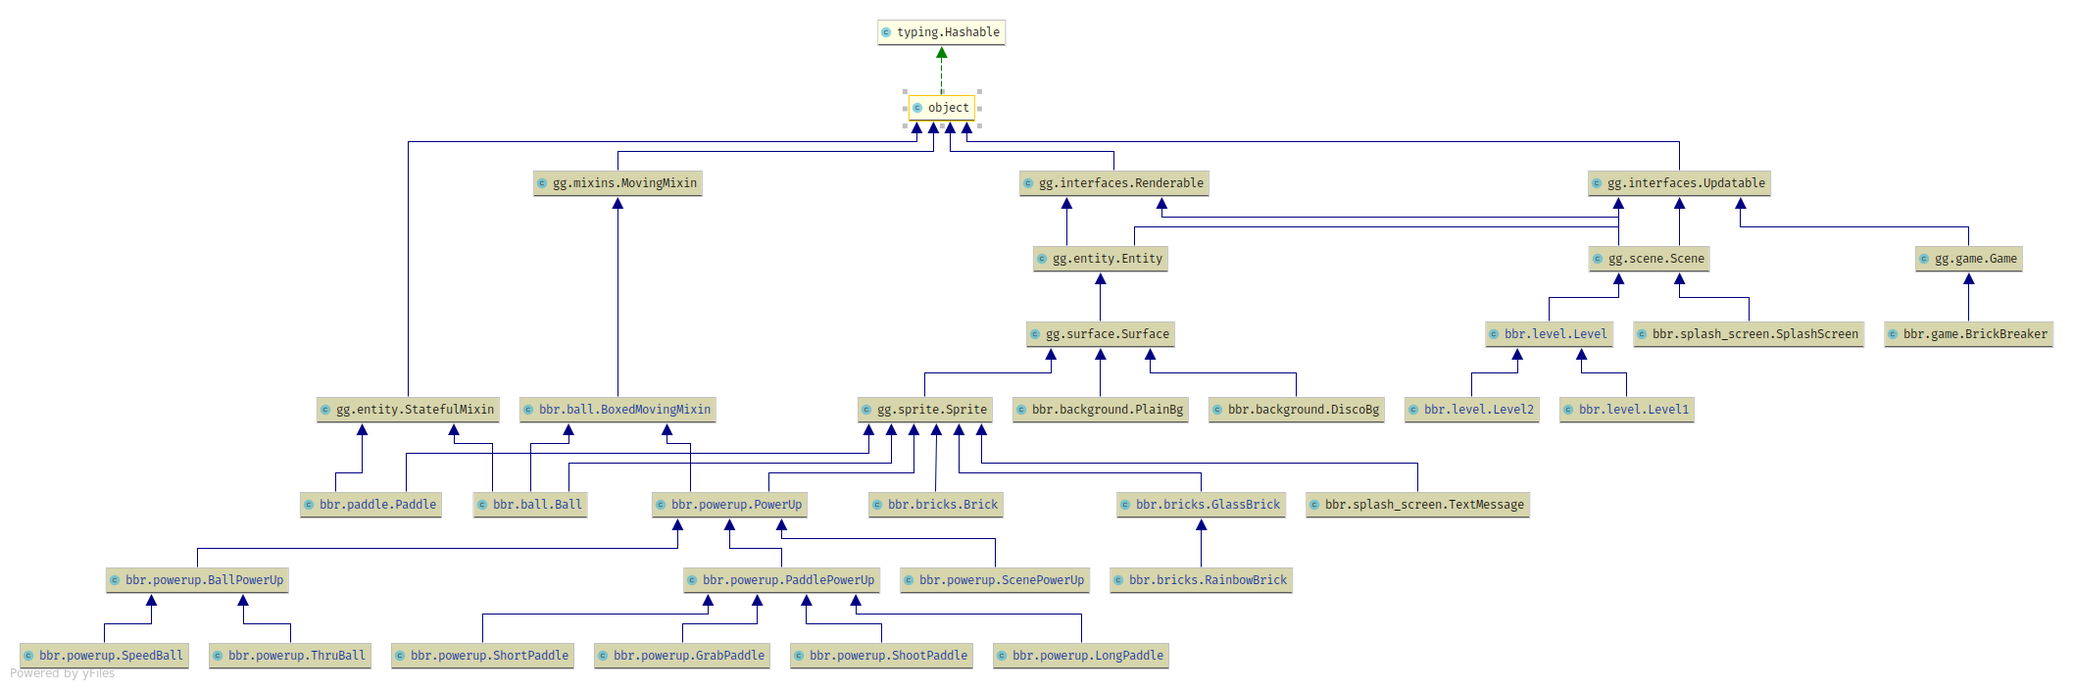
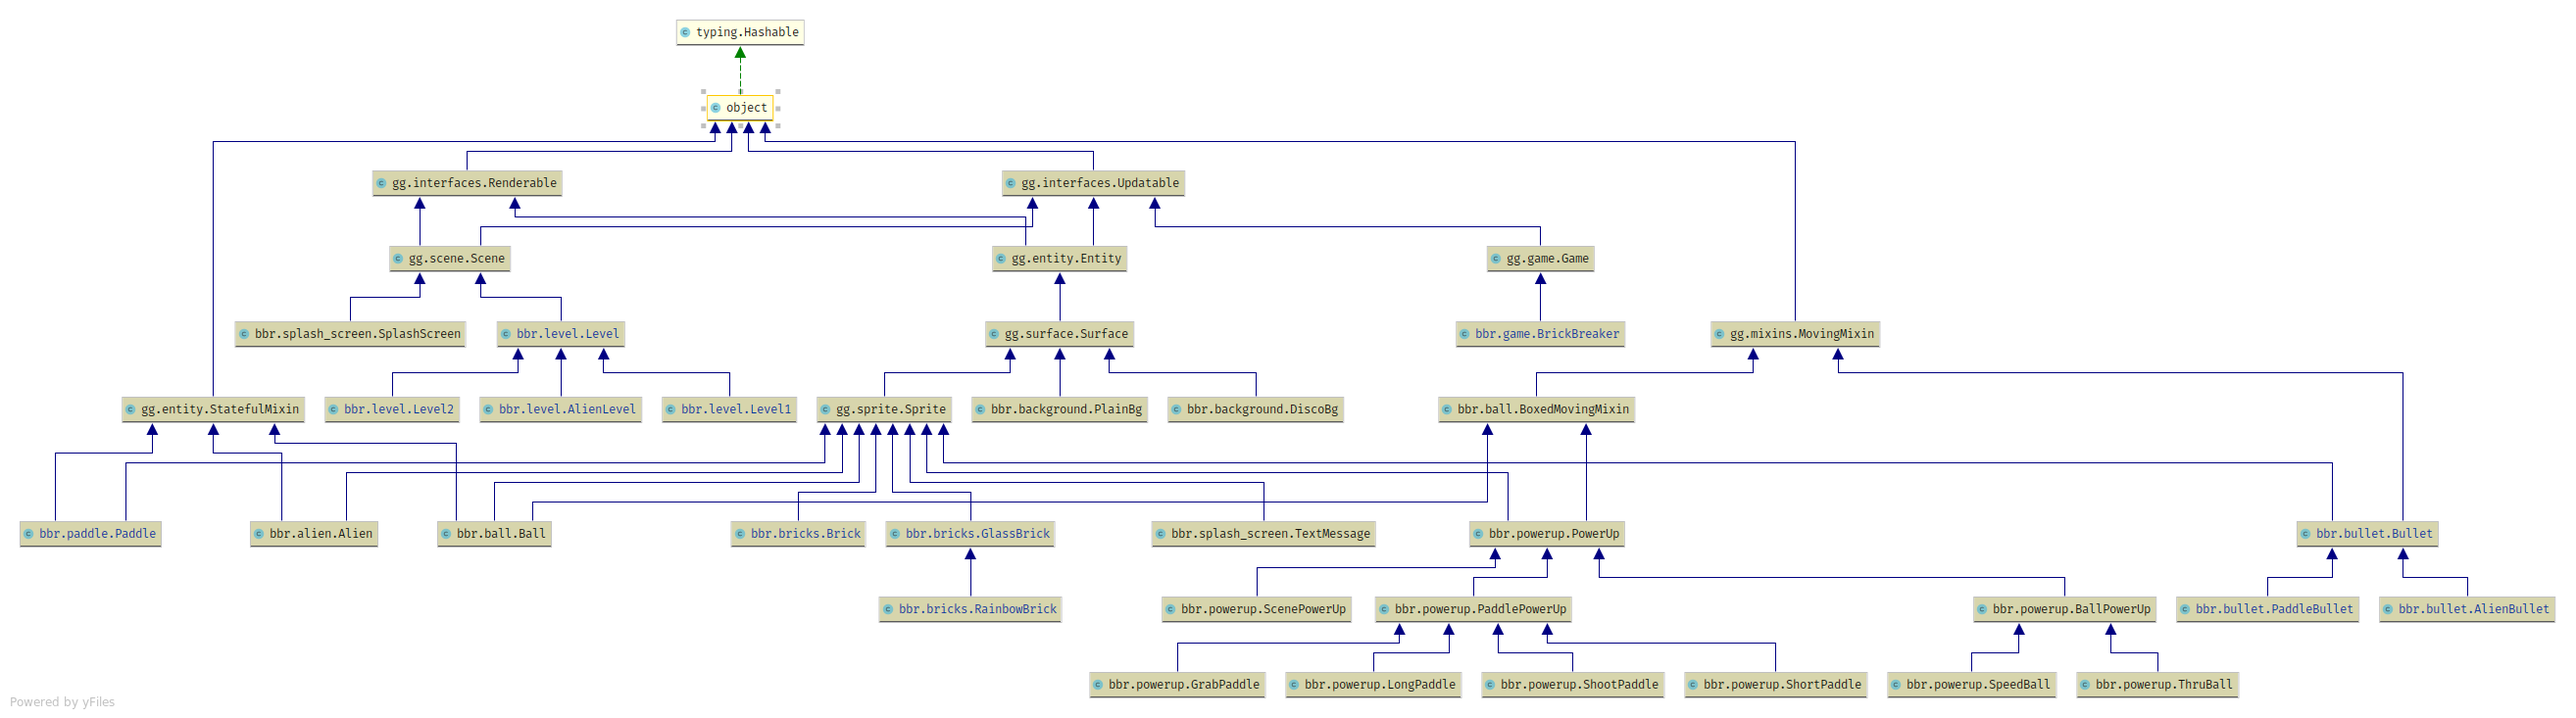
Game Complete 1

diff --git a/bbr/level.py b/bbr/level.py
@@ -1,8 +1,10 @@
 import numpy as np
 
+from bbr.alien import Alien
 from bbr.background import DiscoBg
 from bbr.ball import Ball
 from bbr.bricks import GlassBrick, RainbowBrick, Brick
+from bbr.bullet import PaddleBullet, AlienBullet
 from bbr.paddle import Paddle
 from bbr.powerup import LongPaddle, ShortPaddle, ShootPaddle, GrabPaddle, SpeedBall, ThruBall
 from gg import Scene
@@ -18,6 +20,7 @@ class Level(Scene):
         self.bricks = []
         self.balls = []
         self.powerups = []
+        self.bullets = []
         self.gen()
 
     def gen(self):
@@ -42,6 +45,16 @@ class Level(Scene):
             if it.is_active():
                 yield it
 
+    def iter_bullets(self):
+        for it in self.bullets:
+            if it.is_active():
+                yield it
+
+    def add_paddle_bullet(self, pos, vel):
+        bullet = PaddleBullet(self, pos=pos, vel=vel)
+        self.bullets.append(bullet)
+        self.add(bullet)
+
     def add_powerup(self, pos, vel):
         id = np.random.randint(0, 6)
         if id == 0:
@@ -62,15 +75,12 @@ class Level(Scene):
     def update(self, timestamp):
         super(Level, self).update(timestamp)
         self.balls = [x for x in self.iter_balls()]
+        self.bullets = [x for x in self.iter_bullets()]
         self.bricks = [x for x in self.iter_bricks()]
         self.powerups = [x for x in self.iter_powerups()]
         if timestamp > 200 and timestamp % 50 == 0:
             for x in self.iter_bricks():
                 x.move(Pos([1, 0]))
-                if x.bottom == self.bottom - 2:
-                    return 'FAIL'
-        if len(self.bricks) == 0:
-            return 'PASS'
         if len(self.balls) == 0:
             self.game.lives -= 1
             ball_pos = self.paddle.pos + [-1, np.random.randint(0, self.paddle.width // 2) * 2]
@@ -78,7 +88,6 @@ class Level(Scene):
                 Ball(self, pos=ball_pos, vel=Vel([0, 0]))
             )
             self.add(*self.balls)
-        return 'OK'
 
     # def generate_bricks(self):
     #     for it in range(7):
@@ -108,6 +117,9 @@ class Level(Scene):
             for it in self.iter_balls():
                 it.on_paddle = False
                 it.set_launch_angle(self.paddle.get_ball_angle(it.x))
+        elif char == 's':
+            if self.paddle.state['shooting']:
+                self.add_paddle_bullet(Pos(self.paddle.pos + Pos([0, 2])), Vel([-1, 0]))
 
 
 class Level1(Level):
@@ -122,6 +134,14 @@ class Level1(Level):
                     [4 + 1 * GlassBrick.SHAPE[0], 4 + it * GlassBrick.SHAPE[1]]
                 ))
             )
+
+    def update(self, timestamp):
+        super(Level1, self).update(timestamp)
+        for x in self.iter_bricks():
+            if x.bottom >= self.bottom - 2:
+                return 'FAIL'
+        if len(self.bricks) == 0:
+            return 'PASS'
 
 
 class Level2(Level):
@@ -175,3 +195,69 @@ class Level2(Level):
                     [y, 4 + 2 * it * RainbowBrick.SHAPE[1]]
                 ))
             )
+
+    def update(self, timestamp):
+        super(Level1, self).update(timestamp)
+        for x in self.iter_bricks():
+            if x.bottom >= self.bottom - 2:
+                return 'FAIL'
+        if len(self.bricks) == 0:
+            return 'PASS'
+
+
+class AlienLevel(Level):
+    def __init__(self, *args, **kwargs):
+        super(AlienLevel, self).__init__(*args, **kwargs)
+        # print(self.paddle.pos)
+        self.alien = Alien(self, pos=Pos([1, self.left + (self.width // 4) * 2]))
+        self.add(self.alien)
+
+    def generate_bricks(self):
+        pass
+
+    def add_powerup(self, pos, vel):
+        pass
+
+    def add_paddle_bullet(self, pos, vel):
+        pass
+
+    def add_layer(self):
+        for x in self.iter_bricks():
+            x.move(Pos(self.width, 0))
+        y = self.alien.bottom
+        to_add = []
+        # First Row
+        for it in range(3):
+            to_add.append(
+                GlassBrick(self, pos=Pos(
+                    [y, 4 + (2 * it + 1) * GlassBrick.SHAPE[1]]
+                ))
+            )
+
+        for it in range(4):
+            to_add.append(
+                RainbowBrick(self, pos=Pos(
+                    [y, 4 + 2 * it * RainbowBrick.SHAPE[1]]
+                ))
+            )
+        self.bricks += to_add
+        self.add(*to_add)
+
+    def add_alien_bullet(self, pos, vel):
+        # print(pos)
+        bullet = AlienBullet(self, pos=pos, vel=vel)
+        self.bullets.append(bullet)
+        self.add(bullet)
+
+    def receive_input(self, char):
+        super(AlienLevel, self).receive_input(char)
+        if char in ['j', 'l']:
+            direction = -4 if char == 'j' else 4
+            direction = min(self.right - self.paddle.right, direction)
+            direction = max(self.left - self.paddle.left, direction)
+            self.alien.move(Pos([0, direction]))
+
+    def update(self, timestamp):
+        if not self.alien.is_active():
+            return 'PASS'
+        return super(AlienLevel, self).update(timestamp)

diff --git a/bbr/alien.py b/bbr/alien.py
@@ -1,0 +1,55 @@
+from bbr.sprites import alien
+from gg import StatefulMixin, Sprite
+from gg.utils import load_sprite, collides, Vel, Pos
+
+
+class Alien(StatefulMixin, Sprite):
+    sprite = load_sprite(alien[1])
+    SHAPE = sprite.shape
+
+    def __init__(self, scene, *args, **kwargs):
+        state = {
+            'done': 0,
+            'color': [255, 255, 66]
+        }
+        kwargs['state'] = state
+        super(Alien, self).__init__(self.sprite, scene, *args, **kwargs)
+        self.fill_foreground(self.state['color'])
+
+    def update_sprite(self):
+        self.fill_foreground(self.state['color'])
+
+    def hit(self, targeet):
+        self.state['color'][1] -= 20
+        if self.state['color'][1] < 200 and self.state['done'] == 0:
+            self.scene.add_layer()
+            self.state['done'] += 1
+        elif self.state['color'][1] < 100 and self.state['done'] == 1:
+            self.scene.add_layer()
+            self.state['done'] += 1
+        self.update_sprite()
+
+    def update(self, timestamp):
+        for target in self.scene.iter_balls():
+            if (target.top == self.bottom or collides(target, self) and target.vy < 0) \
+                    or (target.bottom == self.top or collides(target, self) and target.vy > 0):
+                if target.left > self.left - 1 and target.right < self.right + 2:
+                    self.hit(target)
+                    target.switch_y()
+                elif target.left == self.left - 1 and target.vx > 0:
+                    self.hit(target)
+                    target.switch_x()
+                    target.switch_y()
+                elif target.left == self.right + 1 and target.vx < 0:
+                    self.hit(target)
+                    target.switch_x()
+                    target.switch_y()
+
+            elif (target.left == self.right or collides(target, self) and target.vx < 0) or \
+                    (target.right == self.left or collides(target, self) and target.vx > 0):
+                if self.top <= target.top <= self.bottom:
+                    self.hit(target)
+                    target.switch_x()
+
+        if timestamp % 10 == 0:
+            self.scene.add_alien_bullet(Pos([self.bottom, self.left + self.width // 2]), Vel([1, 0]))

diff --git a/bbr/bullet.py b/bbr/bullet.py
@@ -18,11 +18,13 @@ class AlienBullet(Bullet):
     sprite = load_sprite(bullet[0])
     SHAPE = sprite.shape
 
-    def __init__(self, scene, *args, **kwargs):
-        super(AlienBullet, self).__init__(self.sprite, scene, *args, **kwargs)
+    def __init__(self, *args, **kwargs):
+        super(AlienBullet, self).__init__(*args, **kwargs)
         self.vel = Vel([1, 0])
 
     def update(self, timestamp):
+        if self.bottom == self.scene.paddle.top:
+            self.scene.game.lives -= 1
         self.move(self.vel)
 
 
@@ -30,9 +32,14 @@ class PaddleBullet(Bullet):
     sprite = load_sprite(bullet[1])
     SHAPE = sprite.shape
 
-    def __init__(self, scene, *args, **kwargs):
-        super(PaddleBullet, self).__init__(self.sprite, scene, *args, **kwargs)
+    def __init__(self, *args, **kwargs):
+        super(PaddleBullet, self).__init__(*args, **kwargs)
         self.vel = Vel([-1, 0])
 
     def update(self, timestamp):
+        for target in self.scene.iter_bricks():
+            if self.top == target.bottom:
+                self.deactivate()
+                return
+
         self.move(self.vel)

diff --git a/bbr/bricks.py b/bbr/bricks.py
@@ -2,6 +2,7 @@ import numpy as np
 
 from gg import Sprite
 from gg.utils import load_sprite, load_sprites
+from .ball import Ball
 from .sprites import brick, glass
 
 
@@ -35,15 +36,17 @@ class GlassBrick(Sprite):
         self.alpha = True
 
     def hit(self, ball):
-        if ball.state['thru']:
-            self.deactivate()
-            return
+        if isinstance(ball, Ball):
+            if ball.state['thru']:
+                self.deactivate()
+                return
         self.scene.game.score += 100
         self.state += 1
         # if True:
         # print(ball.vel)
         # print("hi")
-        self.scene.add_powerup(self.pos + [4, 6], ball.vel)
+        if isinstance(ball, Ball):
+            self.scene.add_powerup(self.pos + [4, 6], ball.vel)
         if self.state == 3:
             self.scene.game.score += 100
             self.deactivate()

diff --git a/bbr/game.py b/bbr/game.py
@@ -4,7 +4,7 @@ import numpy as np
 
 from gg import ForegroundColor, BackgroundColor
 from gg import Game
-from .level import Level1, Level2
+from .level import Level1, Level2, AlienLevel
 from .splash_screen import SplashScreen
 
 
@@ -13,7 +13,7 @@ class BrickBreaker(Game):
         super(BrickBreaker, self).__init__(*args, **kwargs)
         self.total_lives = 5
         self.lives = 5
-        self.levels = [Level1(self), Level2(self)]
+        self.levels = [Level1(self), Level2(self), AlienLevel(self)]
         self.level_id = 0
         self.level = self.levels[self.level_id]
         self.current_scene = self.level

diff --git a/bbr/paddle.py b/bbr/paddle.py
@@ -97,9 +97,8 @@ class Paddle(StatefulMixin, Sprite):
     # def enable_powerup(self):
 
     def update(self, timestamp):
-        print('Paddle grab:', self.state['grabbing'])
-        print('Paddle long:', self.state['length'])
-        print('Paddle shoot:', self.state['shooting'])
+        if self.state['shooting']:
+            print('Paddle shoot:', self.state['shoot_time'] + 100 - timestamp)
         for target in self.scene.iter_balls():
             if (
                     target.bottom >= self.top and

diff --git a/bbr/sprites.py b/bbr/sprites.py
@@ -107,10 +107,10 @@ alien =[
 ░░▀█▀░░▀▀░░▀█▀░░
 """,
 """
-▄░▀▄░░░▄▀░▄
-█▄███████▄█
-███▄███▄███
-▀█████████▀
-░▄▀░░░░░▀▄░
+▄░▀▄░░▄▀░▄
+█▄██████▄█
+███▄██▄███
+▀████████▀
+▄▀░░░░░░▀▄
 """]
 
